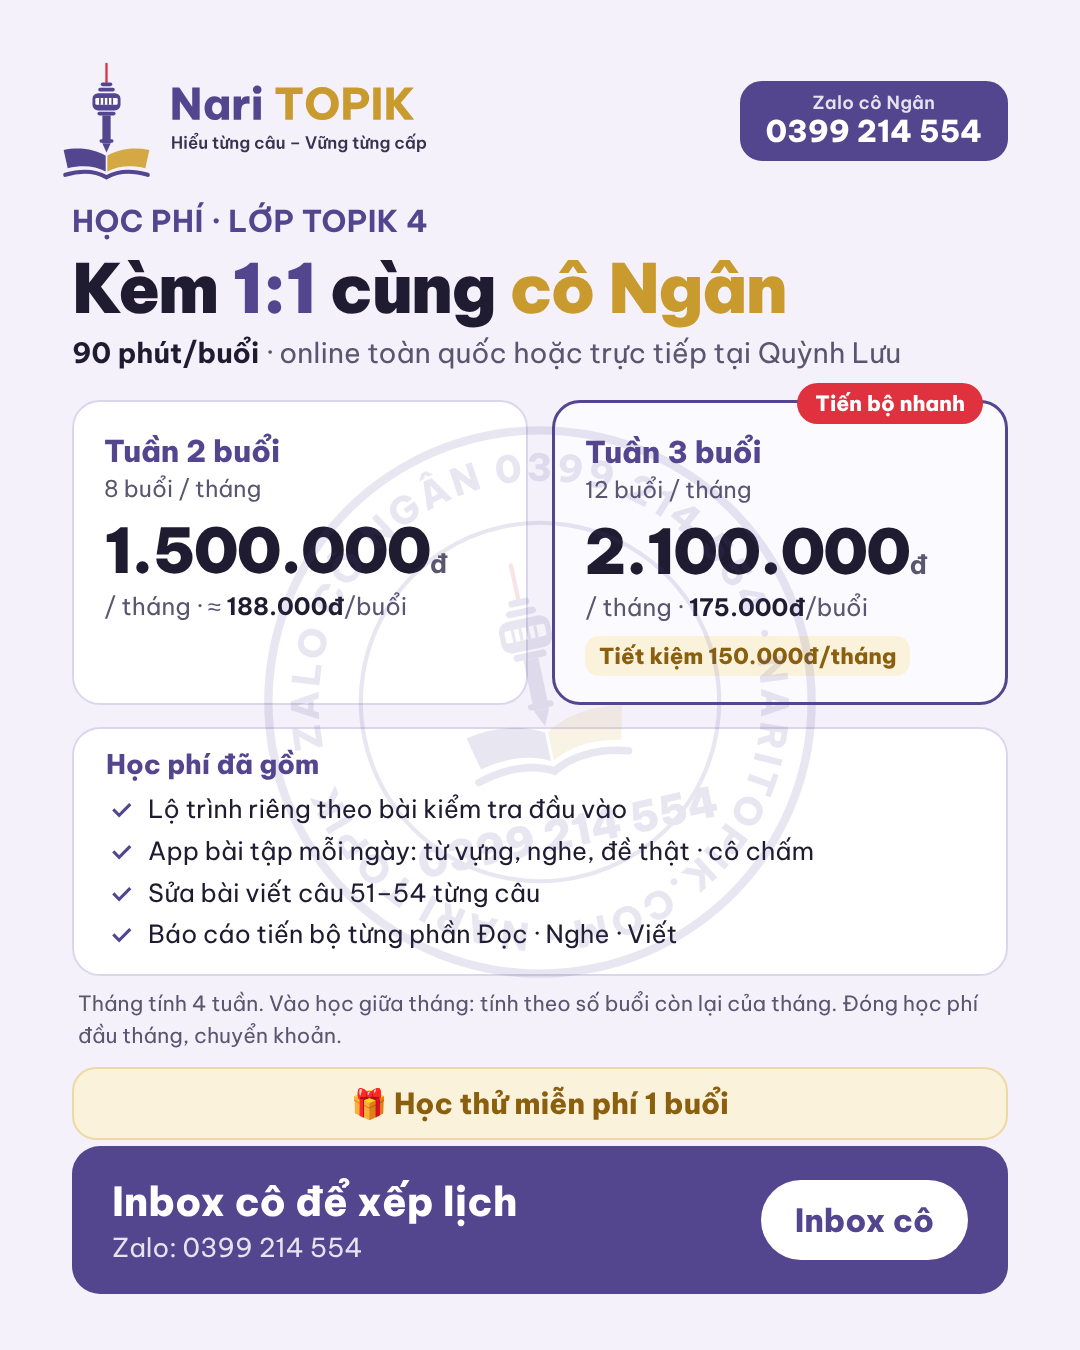
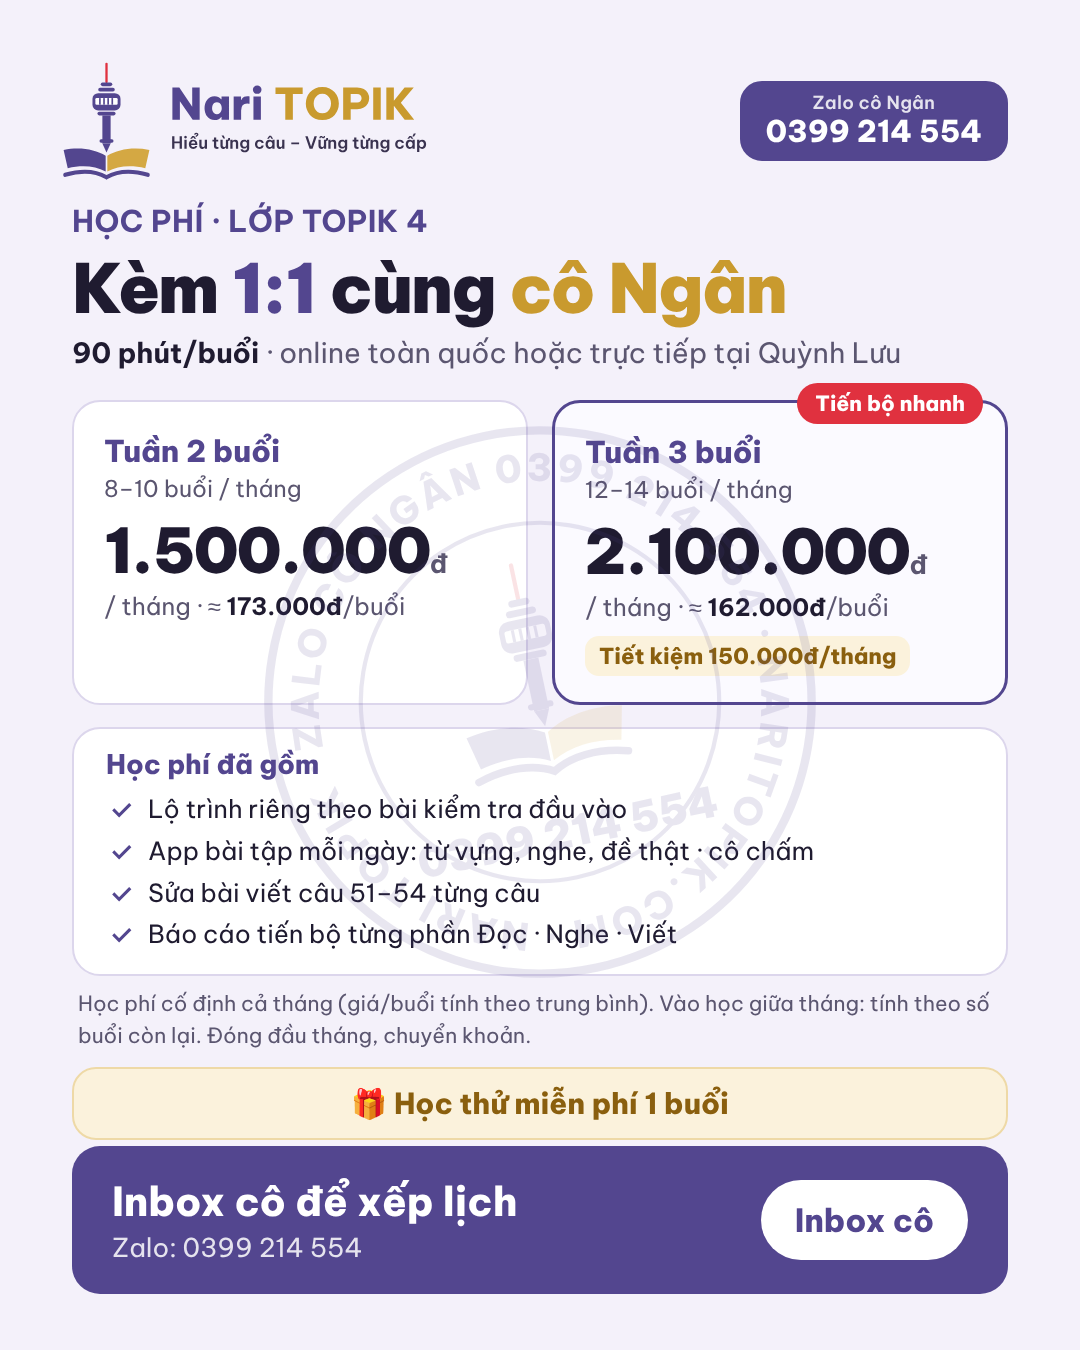
Ảnh học phí: giá cố định cả tháng, giá/buổi theo trung bình 13 / 8,7 buổi
Claude-Session: https://claude.ai/code/session_01GShtACKvyU2vvWNYyKB9NB

diff --git a/quang-cao/hoc-phi/topik-4.html b/quang-cao/hoc-phi/topik-4.html
@@ -26,10 +26,10 @@ h1{font-size:68px}
 <h1>Kèm <span class=v>1:1</span> cùng <span class=g>cô Ngân</span></h1>
 <div class=lead><b>90 phút/buổi</b> · online toàn quốc hoặc trực tiếp tại Quỳnh Lưu</div>
 <div class=pk>
- <div class="card p"><div class=n>Tuần 2 buổi</div><div class=b>8 buổi / tháng</div>
-  <div class=m>1.500.000<small>đ</small></div><div class=u>/ tháng · ≈ <b>188.000đ</b>/buổi</div></div>
- <div class="card p hot"><div class=bd>Tiến bộ nhanh</div><div class=n>Tuần 3 buổi</div><div class=b>12 buổi / tháng</div>
-  <div class=m>2.100.000<small>đ</small></div><div class=u>/ tháng · <b>175.000đ</b>/buổi</div><div class=sv>Tiết kiệm 150.000đ/tháng</div></div>
+ <div class="card p"><div class=n>Tuần 2 buổi</div><div class=b>8–10 buổi / tháng</div>
+  <div class=m>1.500.000<small>đ</small></div><div class=u>/ tháng · ≈ <b>173.000đ</b>/buổi</div></div>
+ <div class="card p hot"><div class=bd>Tiến bộ nhanh</div><div class=n>Tuần 3 buổi</div><div class=b>12–14 buổi / tháng</div>
+  <div class=m>2.100.000<small>đ</small></div><div class=u>/ tháng · ≈ <b>162.000đ</b>/buổi</div><div class=sv>Tiết kiệm 150.000đ/tháng</div></div>
 </div>
 <div class="card inc"><div class=h>Học phí đã gồm</div><ul>
  <li>Lộ trình riêng theo bài kiểm tra đầu vào</li>
@@ -37,7 +37,7 @@ h1{font-size:68px}
  <li>Sửa bài viết câu 51–54 từng câu</li>
  <li>Báo cáo tiến bộ từng phần Đọc · Nghe · Viết</li>
 </ul></div>
-<div class=note>Tháng tính 4 tuần. Vào học giữa tháng: tính theo số buổi còn lại của tháng. Đóng học phí đầu tháng, chuyển khoản.</div>
+<div class=note>Học phí cố định cả tháng (giá/buổi tính theo trung bình). Vào học giữa tháng: tính theo số buổi còn lại. Đóng đầu tháng, chuyển khoản.</div>
 <div class=gift>🎁 Học thử miễn phí 1 buổi</div>
 <div class=cta><div><div class=t>Inbox cô để xếp lịch</div><div class=s>Zalo: 0399 214 554</div></div><div class=btn>Inbox cô</div></div>
 <script src="../../quang-cao/wm.js"></script>
